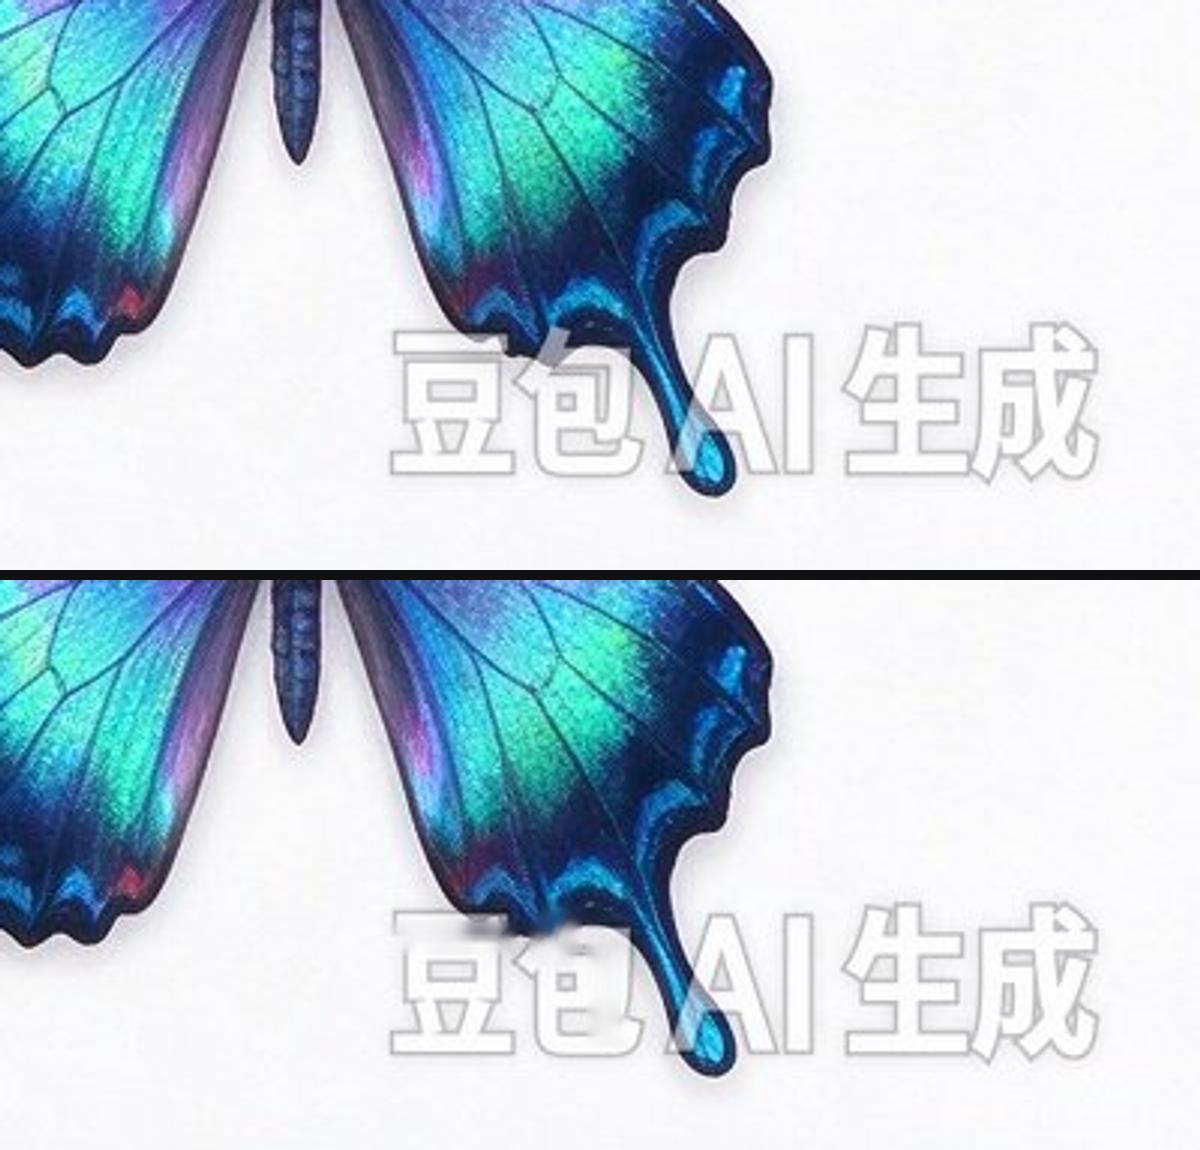
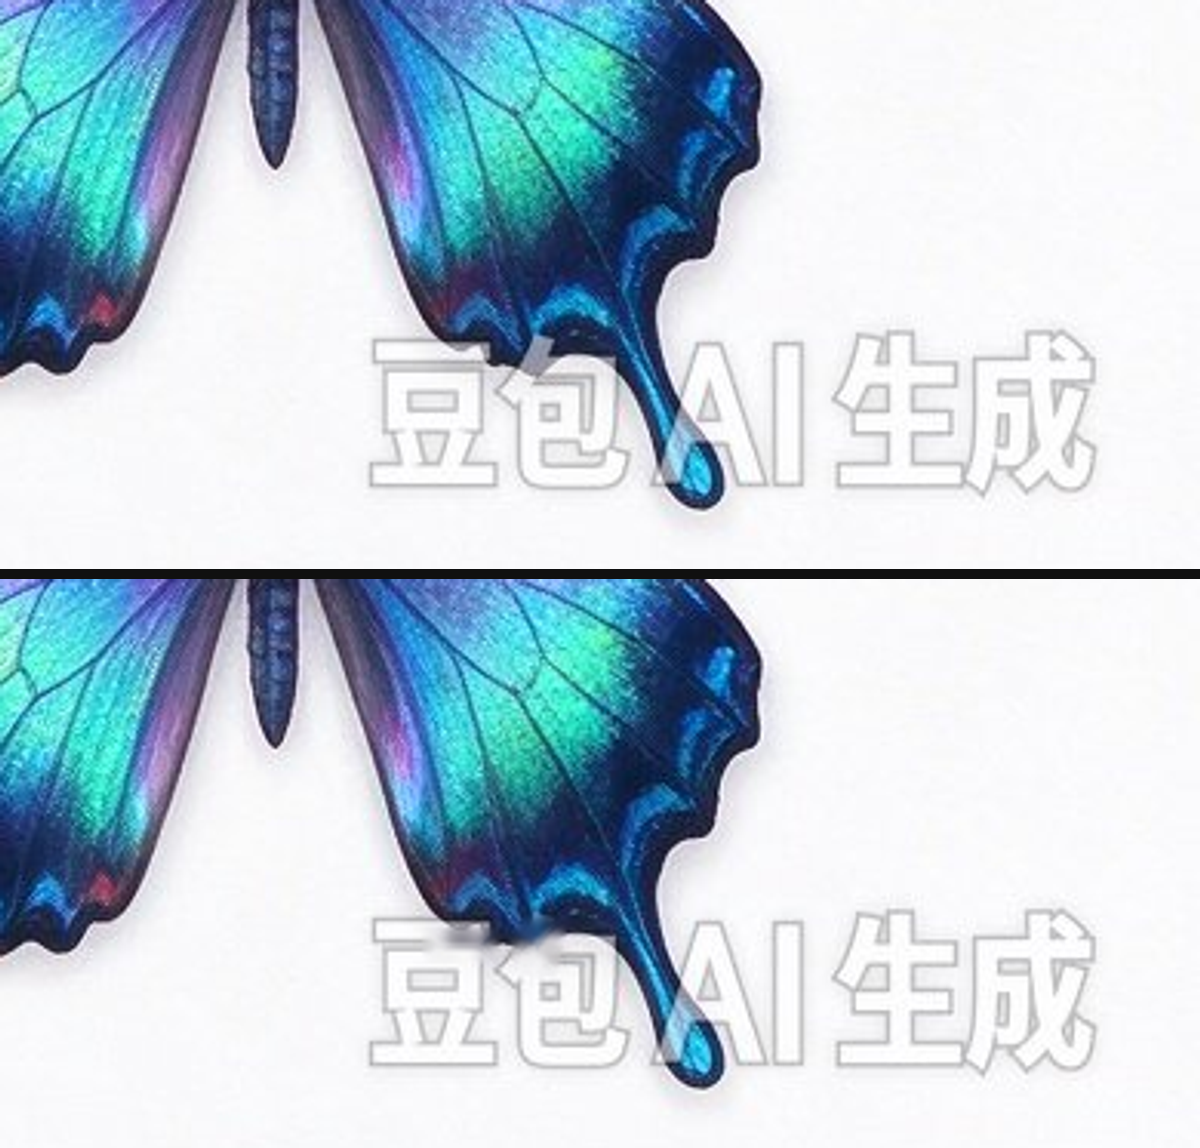
fix(watermark): 白底浅灰角标默认即可识别（背景余量先验决定极性）
用户反馈"识别失败"：样例 samples/蝴蝶-豆包AI水印.jpg 在默认设置下返回 0%。

根因（三个叠加，之前只解决了参数层面）：
- 亮极性在近白背景上 α 欠定：α≈(I−B)/(255−B)，背景 250 时"还能再亮多少"只剩
  5 个灰阶，2~3 级压缩噪声就能凑出 α≈0.1~0.2 的假水印 —— 实测这张图上亮极性
  报出 867 个噪声碎片；
- 而 auto 的短路条件是"亮极性有结果"（kept>0），于是噪声把暗极性彻底挡住；
- 真正的水印（暗极性 α≈0.19、64 个一致笔画）根本没被评估。

修复：新增**背景余量先验**决定先试哪一极。
统计"亮极性可用余量充足（255−B ≥ 32）的像素占比"，≥50% 先试亮极性，否则先试暗极性；
余量不足的像素在 α-map 阶段直接判为不可测。
实测：豆包角标图（58.8% 像素 >240）→ 自动改走暗极性 → **覆盖 1.887% / 置信 1.0 /
64 个候选框**；三张无水印素材仍 0.000%；平铺水印（中灰背景）仍由亮极性给出 7.09%。

顺带修「自动」引擎选择：新增掩膜邻域"纯色占比"判据（掩膜外 2~6px 一圈里
灰度 ≥235 或 ≤20 的比例）。占比 ≥15% 说明水印压在平坦底色上，底色可直接观测，
用 bgsub 背景替代比反混合更稳（实测用户图 24.1% → bgsub；平铺水印 0.5% → 仍用 unblend；
该值不能用中位数，用户图环像素中位数被翅膀拉到 211，会误判成内容）。

界面：极性=自动 的说明改为"按背景明暗自动选极性"；检测区补一行
"识别不使用下方引擎"（消除"识别用哪个引擎"的混淆）。

测试：新增回归用例「白底浅灰角标：默认设置下就能识别」（覆盖/置信/候选框/极性=dark/
α 区间/引擎=bgsub/掩膜外改动 0 全部断言）。npm test 93 项全绿。

Changed region(s): [[0.0, 0.4878, 0.925, 0.9451], [0.0, 0.0, 0.925, 0.4573]]

diff --git a/server/src/watermark.js b/server/src/watermark.js
@@ -303,10 +303,42 @@ function removeByUnblend(image, mask, options) {
 }
 
 /**
+ * 掩膜紧邻一圈里"平坦底色"像素的占比（用来判断水印底下是底色还是内容）。
+ *
+ * 取掩膜向外 2~6px 的一圈（不含掩膜本身），统计灰度**接近纯白或纯黑**（≥235 / ≤20）的比例：
+ *  - 占比高 → 水印主要压在平坦底色上，底色可以直接观测 → 用背景替代；
+ *  - 占比低 → 压在照片/插画内容上 → 靠 (α, W) 反混合。
+ *
+ * 为什么不用中位数：用户那张图的水印有一部分压在蝴蝶翅膀上，环像素中位数被拉到 211
+ * （25 分位 179 / 75 分位 234），单看中位数会误判成"内容"；而看占比是 ——
+ * 用户图约 45% 的环像素是纯白底，平铺水印那张只有约 0%（整段挤在 120~161）。
+ */
+function ringFlatFraction(image, mask) {
+  const { width: w, height: h } = image;
+  const inner = dilateMask(mask, 2);
+  const outer = dilateMask(mask, 6);
+  let flat = 0;
+  let total = 0;
+  for (let y = 0; y < h; y += 1) {
+    for (let x = 0; x < w; x += 1) {
+      const i = y * w + x;
+      if (outer.data[i] <= 127 || inner.data[i] > 127) continue;
+      const p = i * 4;
+      const luma = image.data[p] * 0.299 + image.data[p + 1] * 0.587 + image.data[p + 2] * 0.114;
+      total += 1;
+      if (luma >= 235 || luma <= 20) flat += 1;
+    }
+  }
+  return total ? flat / total : null;
+}
+
+/**
  * 自动选择引擎：
- *  - 能估出可信的 (α, W) → unblend（半透明水印，效果远好于修补）
- *  - 否则有水印区域较大且装了 LaMa → lama
- *  - 否则 → opencv 快速修补
+ *  - 半透明水印 → unblend（反推 (α, W)）；但若水印压在**平坦底色**上（底色近乎纯白/纯黑），
+ *    底色本身可以直接观测，用 bgsub（形态学背景替代）更稳，不依赖 α 估计
+ *    —— 实测用户那张白底浅灰角标：反混合取 α=0.187 时水印只是变淡，
+ *    换成背景替代后文字基本清除；
+ *  - 估不出可信 (α, W) → 装了 LaMa 就用 lama，否则 opencv 修补。
  */
 function chooseEngine(image, mask, options) {
   const requested = options.engine;
@@ -318,6 +350,14 @@ function chooseEngine(image, mask, options) {
   const plausible = isUnblendPlausible(unblendParams) || hintPlausible;
   if (requested !== 'auto') return { engine: requested, unblendParams, reason: '显式指定' };
   if (plausible) {
+    const flatFraction = ringFlatFraction(image, mask);
+    if (flatFraction !== null && flatFraction >= 0.15) {
+      return {
+        engine: 'bgsub',
+        unblendParams,
+        reason: `水印主要压在平坦底色上（邻域纯色占比 ${(flatFraction * 100).toFixed(0)}%）：用形态学背景直接替换，不依赖 α 估计`,
+      };
+    }
     return {
       engine: 'unblend',
       unblendParams,

diff --git a/shared/watermark/detect.js b/shared/watermark/detect.js
@@ -328,8 +328,33 @@ function detectOverlay(cv, scope, rgba, gray, edge, opacity, opts) {
   const g = gray.data;
   const s = sat.data;
 
+  // ---- 极性先验：用"背景余量"决定先试哪一极 ----------------------------------
+  // 亮水印的 α ≈ (I−B)/(255−B)：背景越接近纯白，"还能再亮多少"就越小，α 越欠定
+  // （2~3 级压缩噪声就能凑出 α≈0.1~0.2 的假水印）。所以当整张图大面积是近白背景时，
+  // 亮极性的结果不可信，应当**优先试暗极性**（灰/黑水印，α ≈ (B−I)/B 在亮背景上很干净）。
+  //
+  // 实测：豆包角标图（2720×1520，58.8% 像素 >240）——亮极性先试时检出的是白蝴蝶边缘的
+  // 噪声（自动检测返回 0%），改成暗极性先试后正确给出 1.89%/64 个候选；
+  // 而三张无水印素材在暗极性下仍是 0.000%，平铺水印（中灰背景）依旧由亮极性给出 7.09%。
+  const minHeadroom = Math.max(4, Number(opts.minHeadroom) || 32);
+  const usableFraction = (() => {
+    const bgBright = backgrounds[0].bright.data;
+    let usable = 0;
+    let opaque = 0;
+    for (let i = 0; i < opacity.length; i += 7) {
+      if (opacity[i] < 24) continue;
+      opaque += 1;
+      if (255 - bgBright[i] >= minHeadroom) usable += 1;
+    }
+    return opaque ? usable / opaque : 1;
+  })();
+  const preferredPolarity = usableFraction >= 0.5 ? 'bright' : 'dark';
+
   const candidates = [];
-  const polarities = opts.polarity === 'auto' ? ['bright', 'dark'] : [opts.polarity];
+  const polarities =
+    opts.polarity === 'auto'
+      ? [preferredPolarity, preferredPolarity === 'bright' ? 'dark' : 'bright']
+      : [opts.polarity];
   for (const polarity of polarities) {
     const perScale = [];
     for (const bg of backgrounds) {
@@ -339,6 +364,8 @@ function detectOverlay(cv, scope, rgba, gray, edge, opacity, opts) {
       const alphaMap = new Uint8Array(w * h);
       for (let i = 0; i < alphaMap.length; i += 1) {
         if (opacity[i] < 24) continue; // 透明处没有内容
+        // 余量不足的像素直接判为不可测（见上面的极性先验说明）
+        if (polarity === 'bright' ? 255 - background[i] < minHeadroom : background[i] < minHeadroom) continue;
         const diff = polarity === 'bright' ? g[i] - background[i] : background[i] - g[i];
         if (diff <= 0) continue;
         const denom = Math.max(polarity === 'bright' ? 255 - background[i] : background[i], 24);

diff --git a/server/test/watermark.test.js b/server/test/watermark.test.js
@@ -202,6 +202,30 @@ test('干净图（无半透明叠加）不应产生误检掩膜', async () => {
   }
 });
 
+test('白底浅灰角标：默认设置下就能识别（用户实测样例「豆包AI生成」）', async () => {
+  // 这段水印是"浅灰空心描边 + 单实例贴右下角 + 近白背景"，三个点分别踩中了：
+  //  α 只有 0.10~0.25（低于旧默认下限）、单实例（过不了重复性判据）、
+  //  近白背景上亮极性的 α 欠定（噪声就能凑出假水印，且会把暗极性短路掉）。
+  // 现在靠"背景余量先验"自动改走暗极性，默认设置就该检出 —— 这条用例把该修复锁死。
+  const file = path.resolve(import.meta.dirname, '../../samples', '蝴蝶-豆包AI水印.jpg');
+  const buffer = await fs.promises.readFile(file);
+  const result = await analyzeWatermark(buffer, { method: 'auto', sensitivity: 55 });
+
+  assert.ok(result.coverage > 0.005, `默认设置应检出该角标（当前 ${(result.coverage * 100).toFixed(3)}%）`);
+  assert.ok(result.confidence > 0.5, `应有较高置信度（当前 ${result.confidence}）`);
+  assert.ok(result.boxes.length > 0, '应在画布上给出候选框（用于标记水印位置）');
+  assert.equal(result.diagnostics.overlay.polarity, 'dark', '近白背景应自动改用暗极性');
+  assert.ok(
+    result.estimatedAlpha > 0.05 && result.estimatedAlpha < 0.35,
+    `α 应落在浅灰水印的合理区间（当前 ${result.estimatedAlpha}）`,
+  );
+
+  // 默认「自动」引擎：底色近乎纯白 → 应当选背景替代（而不是在这个部分掩膜上失效的反混合）
+  const removed = await removeWatermark(buffer, { engine: 'auto', method: 'auto', sensitivity: 55 });
+  assert.equal(removed.engine, 'bgsub', `平坦底色上应选背景替代（当前 ${removed.engine}）`);
+  assert.equal(removed.integrity.changedOutsideMask, 0, '掩膜外不能有改动');
+});
+
 test('模板匹配：给一张水印图能定位到图中的位置', async () => {
   const clean = cleanImage(320, 240);
   const tw = 60;

diff --git a/web/src/components/WatermarkPanel.vue b/web/src/components/WatermarkPanel.vue
@@ -42,7 +42,7 @@ const polarities = [
   {
     value: 'auto',
     label: '自动',
-    hint: '先按亮水印（白/浅色）检测；只有它拿不出可信结果时才回退到暗极性。',
+    hint: '按背景明暗自动选极性：近白背景优先「暗色」（亮极性在那里估不准不透明度），否则优先「亮色」。',
   },
   {
     value: 'bright',
@@ -187,6 +187,7 @@ async function pickTemplate() {  const input = document.createElement('input');
           @update:model-value="actions.setOption('polarity', $event)"
         />
         <p class="muted note">{{ polarities.find((p) => p.value === state.options.polarity)?.hint }}</p>
+        <p class="muted note">识别不使用下方引擎：检测是 α-map + 形态学背景的统计算法（OpenCV.js，无模型）；「去除」里的引擎只决定如何重建内容。</p>
 
         <div v-if="state.options.method === 'template'" class="template-row">
           <button class="btn is-block" type="button" @click="pickTemplate">
